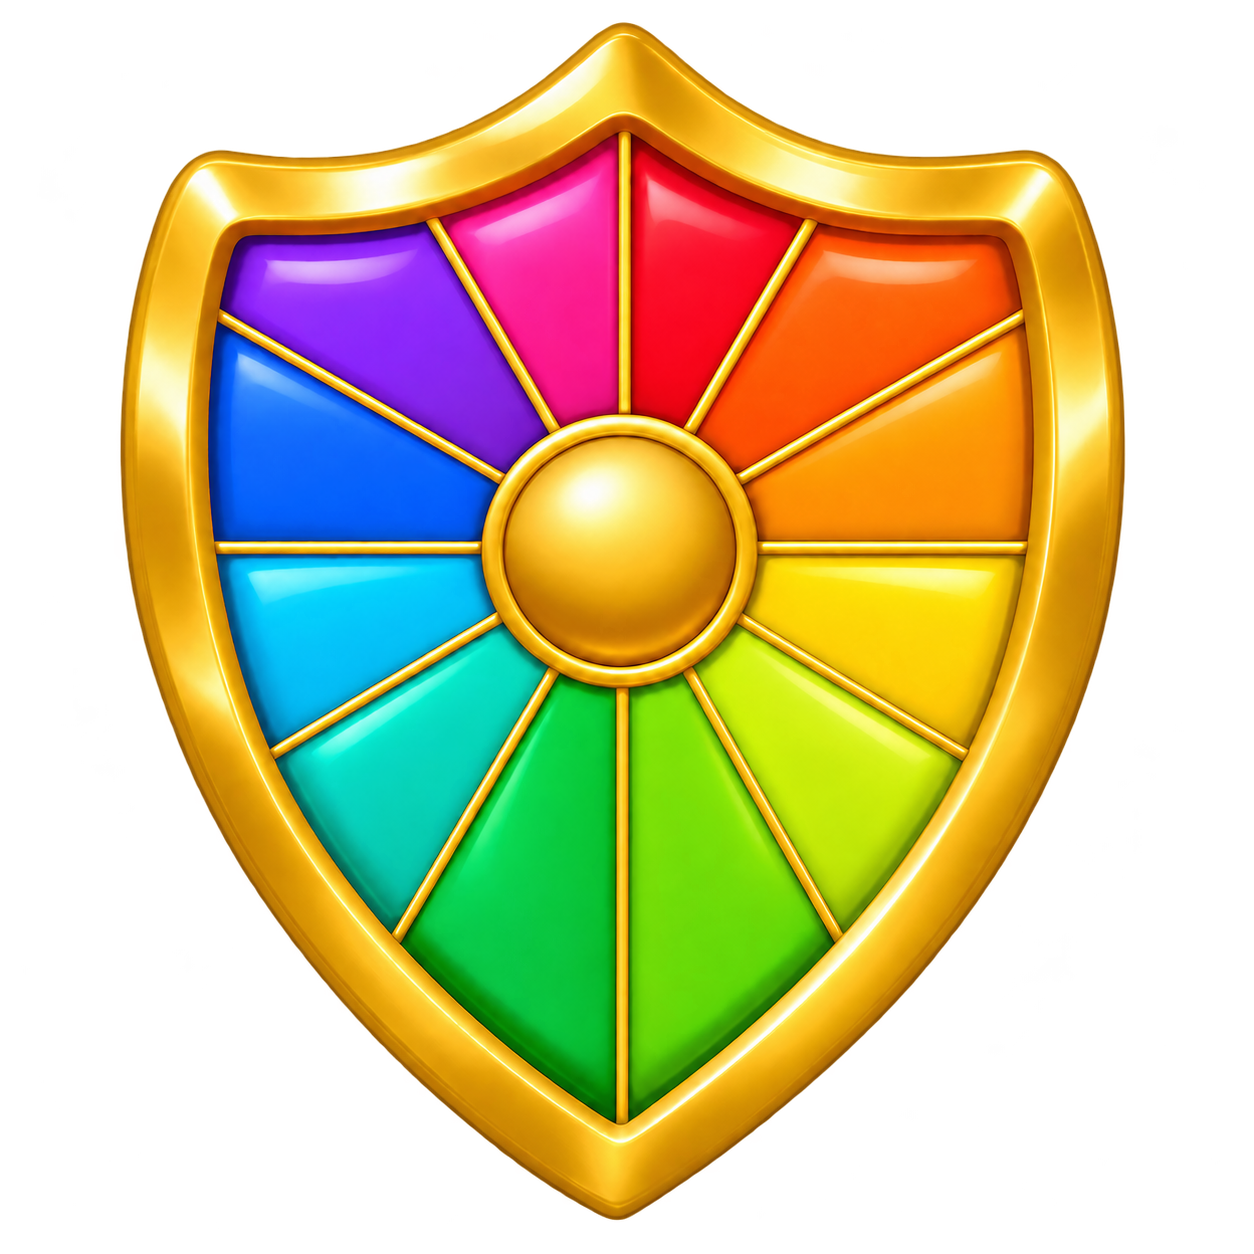
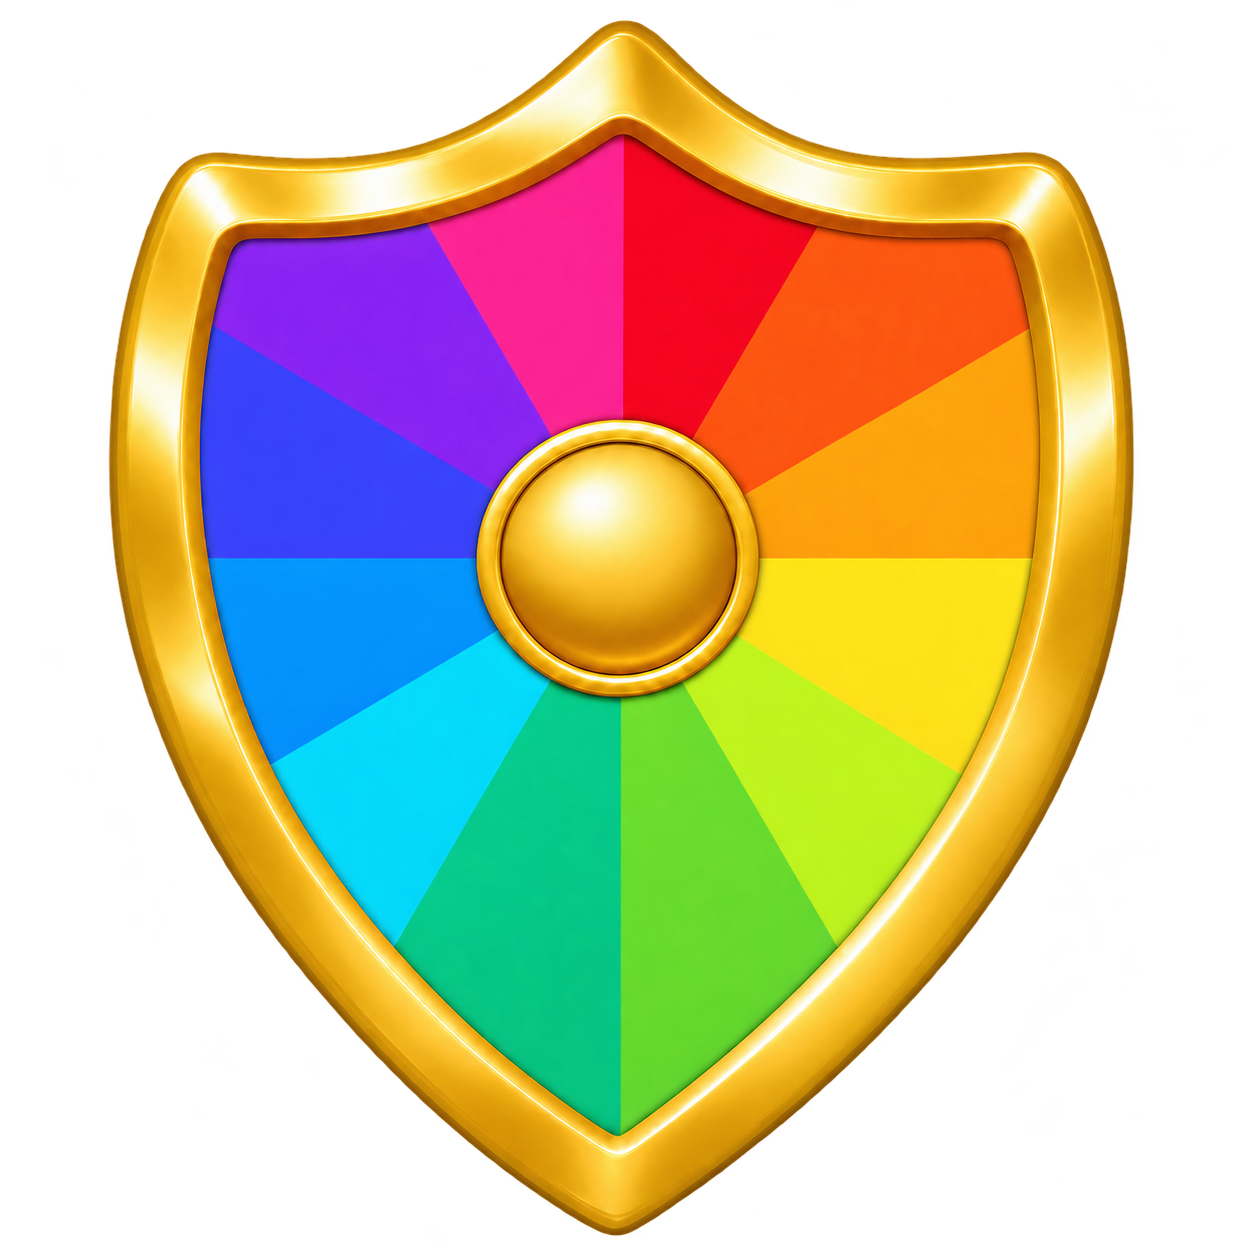
Aplica escudo com cores simples no estilo da roleta

diff --git a/ui/park/reel-symbols.css b/ui/park/reel-symbols.css
@@ -8,7 +8,7 @@
 .park-reels [data-reel-symbol="6"]{--reel-art:url('/assets/symbols-v7.webp');--reel-size:1231.804401% 102.650367%;--reel-position:54.375383% 38.653137%;--reel-clip:0.000000% 0.000000% 0.000000% 0.479218%;}
 .park-reels [data-reel-symbol="8"]{--reel-art:url('/assets/symbols-v7.webp');--reel-size:1237.857494% 103.154791%;--reel-position:72.628847% 91.510903%;--reel-clip:0.000000% 0.000000% 0.000000% 0.000000%;}
 .park-reels [data-reel-symbol="7"]{--reel-art:url('/assets/symbols-v7.webp');--reel-size:1196.883117% 99.740260%;--reel-position:63.497514% 312.500000%;--reel-clip:0.811688% 0.000000% 0.000000% 1.688312%;}
-.park-reels [data-reel-symbol="5"]{--reel-art:url('/assets/symbols/shield-defense-rainbow-gold-v1.webp');--reel-size:85.856851% 85.856851%;--reel-position:52.371313% 52.964141%;--reel-clip:7.490798% 6.736196% 6.652352% 7.406953%;}
+.park-reels [data-reel-symbol="5"]{--reel-art:url('/assets/symbols/shield-defense-rainbow-gold-v1.webp');--reel-size:84.474849% 84.474849%;--reel-position:52.656817% 49.468637%;--reel-clip:7.680080% 7.350101% 7.845070% 8.175050%;}
 .park-reels [data-reel-symbol="11"]{--reel-art:url('/assets/symbols-v7.webp');--reel-size:1071.931915% 89.327660%;--reel-position:100.540052% 51.634769%;--reel-clip:5.510638% 5.248936% 5.161702% 5.423404%;}
 .park-reels [data-reel-symbol="12"]{--reel-art:url('/assets/tony/head.webp');--reel-size:95.806452% 95.806452%;--reel-position:31.781377% 61.842105%;--reel-clip:2.593379% 2.860781% 1.600170% 1.332767%;}
 .park-reels [data-reel-symbol="13"]{--reel-art:url('/assets/tucker/head.webp');--reel-size:90.120947% 90.120947%;--reel-position:43.089070% 58.365862%;--reel-clip:5.765995% 5.622261% 4.113059% 4.256792%;}

diff --git a/docs/HANDOFF.md b/docs/HANDOFF.md
@@ -1,3 +1,14 @@
+## Escudo sem raios internos, iluminação da roleta — Codex, 27/11/2026
+Base 1a3c94e; pedido do dono para aplicar somente na prévia. Arte aprovada:
+setores coloridos se encontram diretamente, sem divisórias douradas ou reflexos
+brancos dentro das cores; borda externa e centro dourados preservados.
+Substituídos PNG fonte e WebP ativo no mesmo caminho; original arquivado em
+archive/assets/shield-spokes-2026-11-27/. Conversão para 512×512, ~32KB.
+Recalculado só o enquadramento do símbolo 5 pelo gerador existente: mantém
+82% de altura visível, proporção natural e centro nas nove casas/fita.
+Sem alterações em lógica, som, economia ou main. Conferência local pelo teste
+circus_symbols_browser.py. Próximo: dono avaliar o escudo em Preview após Pages.
+
 ## Concepção conjunta de Níveis de Patamar (uso das moedas) — Antigravity/Gemini, 27/11/2026
 O dono definiu os 5 limites exatos para o destino das moedas: (1) pagar a própria moeda do jogo para subir de nível, ficando mais caro/difícil; (2) sem segunda moeda; (3) compensar de verdade gastar as moedas da slot nisso; (4) preservar os símbolos conhecidos para o público 40+ ("cadê o ingresso?") e sem retrabalho pesado de assets; (5) sem decoração repetitiva estilo *Royal Match* (cansa após o 5º cenário).
 - **Proposta convergente registrada em `docs/IDEIAS-DE-JOGOS.md` (`i-meta-moedas`, nada implementado ainda):** **"Níveis de Patamar & Ligas do Circo"** — pagar moedas sobe o Nível permanente da conta (protegido contra o Tony), o que **(a)** escala proporcionalmente Vídeo Grátis (`+1.000 → +1.500 → +2.000...`), Raspadinha Diária e giro/prêmios (mantendo `1 vídeo = 10 giros` e RTP 90%), **(b)** destrava vantagens funcionais nos marcos (começar Nível 1 limpo → liberar Royal Rico, Bubble Rico, vagas máximas de Escudo `3 → 4 → 5`, recarga de escudos no Level Up) e **(c)** mantém 100% dos símbolos/personagens intactos, mudando apenas a insígnia de nível e, a cada Liga (ex.: 5 em 5 níveis), sutis tons metálicos/iluminação via CSS.

diff --git a/guidelines/asset-pipeline.md b/guidelines/asset-pipeline.md
@@ -545,3 +545,10 @@ Checkpoint `[skip ci]` sem trocar o asset ativo; aguardando escolha do dono (1, 
 exportação fiel via GPT Image para recuperar PNG com alfa,1 geração nesta tarefa;
 PNG1254→WebP512 (exportação de formato), sem Meshy. Caminhos ativos mantidos;
 originais com coroa em archive/assets/symbols. Não confundir com3 propostas Gemini.
+
+27/11/2026 — Escudo: duas edições GPT Image a partir do escudo atual, segunda
+com referência explícita do asset wheel-symbol-v1. Dono rejeitou o brilho
+individual nos setores; aprovou cores uniformes como a roleta, sem raios
+dourados. PNG fonte preservado, WebP 512×512 por ImageMagick; escala óptica
+recalculada pelo gerador existente. Ferramenta não informou créditos/custo.
+Aplicação somente na prévia. Original arquivado, sem apagar histórico.

diff --git a/docs/PARQUE.md b/docs/PARQUE.md
@@ -721,3 +721,11 @@ o formato de moedas; Tucker e Ray mostram quantidades inteiras. Sem título
 ou legenda visível; rótulos acessíveis preservados.
 
 Quando nada é roubado, os três modais mostram `0`, sem sinal nem decimais.
+
+### Escudo: acabamento da roleta — 27/11/2026 (prévia)
+
+Setores com cores uniformes, sem raios dourados nem faixas brancas de reflexo.
+Borda exterior e centro dourados preservados. O símbolo mantém envelope óptico
+com 82% de altura; arquivos ativos seguem em
+`assets/symbols/shield-defense-rainbow-gold-v1.png/.webp`. Fonte anterior em
+`archive/assets/shield-spokes-2026-11-27/`.

diff --git a/docs/skills/assets.md b/docs/skills/assets.md
@@ -14,3 +14,6 @@ Rejeitado:
 - Ingresso com centro mel/âmbar alaranjado (v2): dono prefere dourado mais claro/champagne, mantendo estrela roxa e inclinação.
 - Lava/estética agressiva fora da paleta do circo.
 - Bola/gota "água" com blobs (marching cubes): pareceu sólido imitando líquido.
+
+- Escudo com luz/reflexos brancos por setor destoa da roleta: dono quer cores
+  uniformes, sem raios metálicos internos; ouro só na borda externa e centro.
